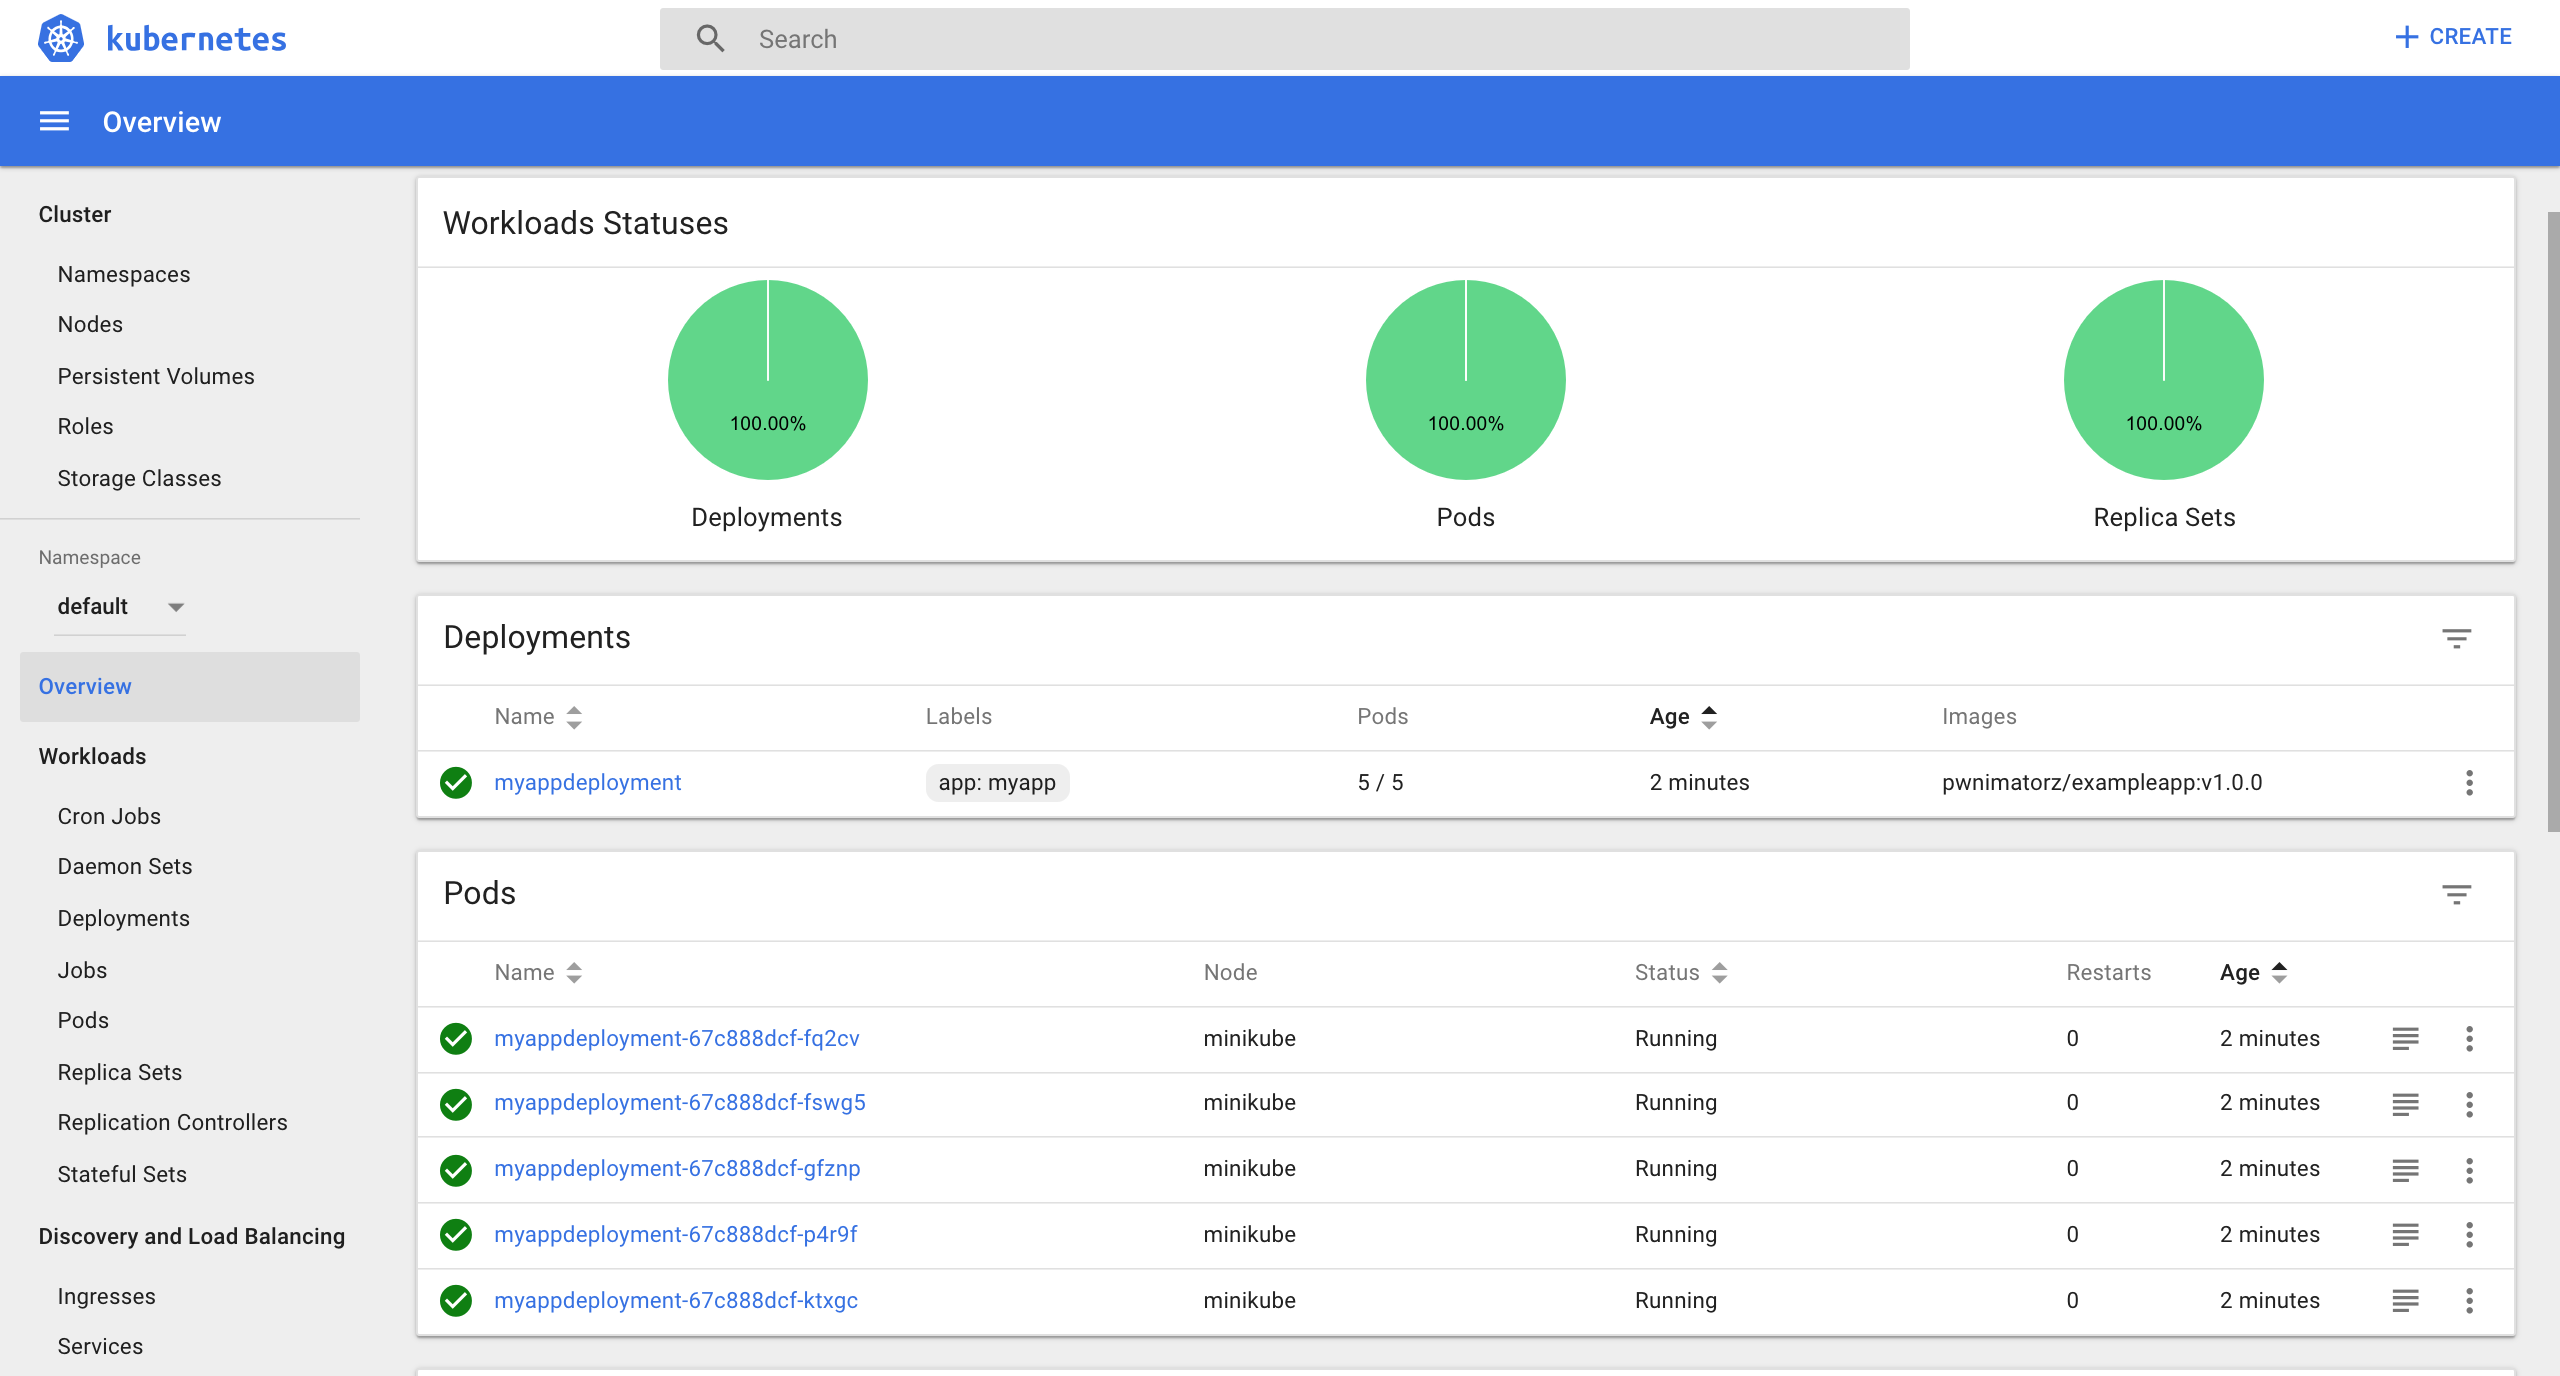
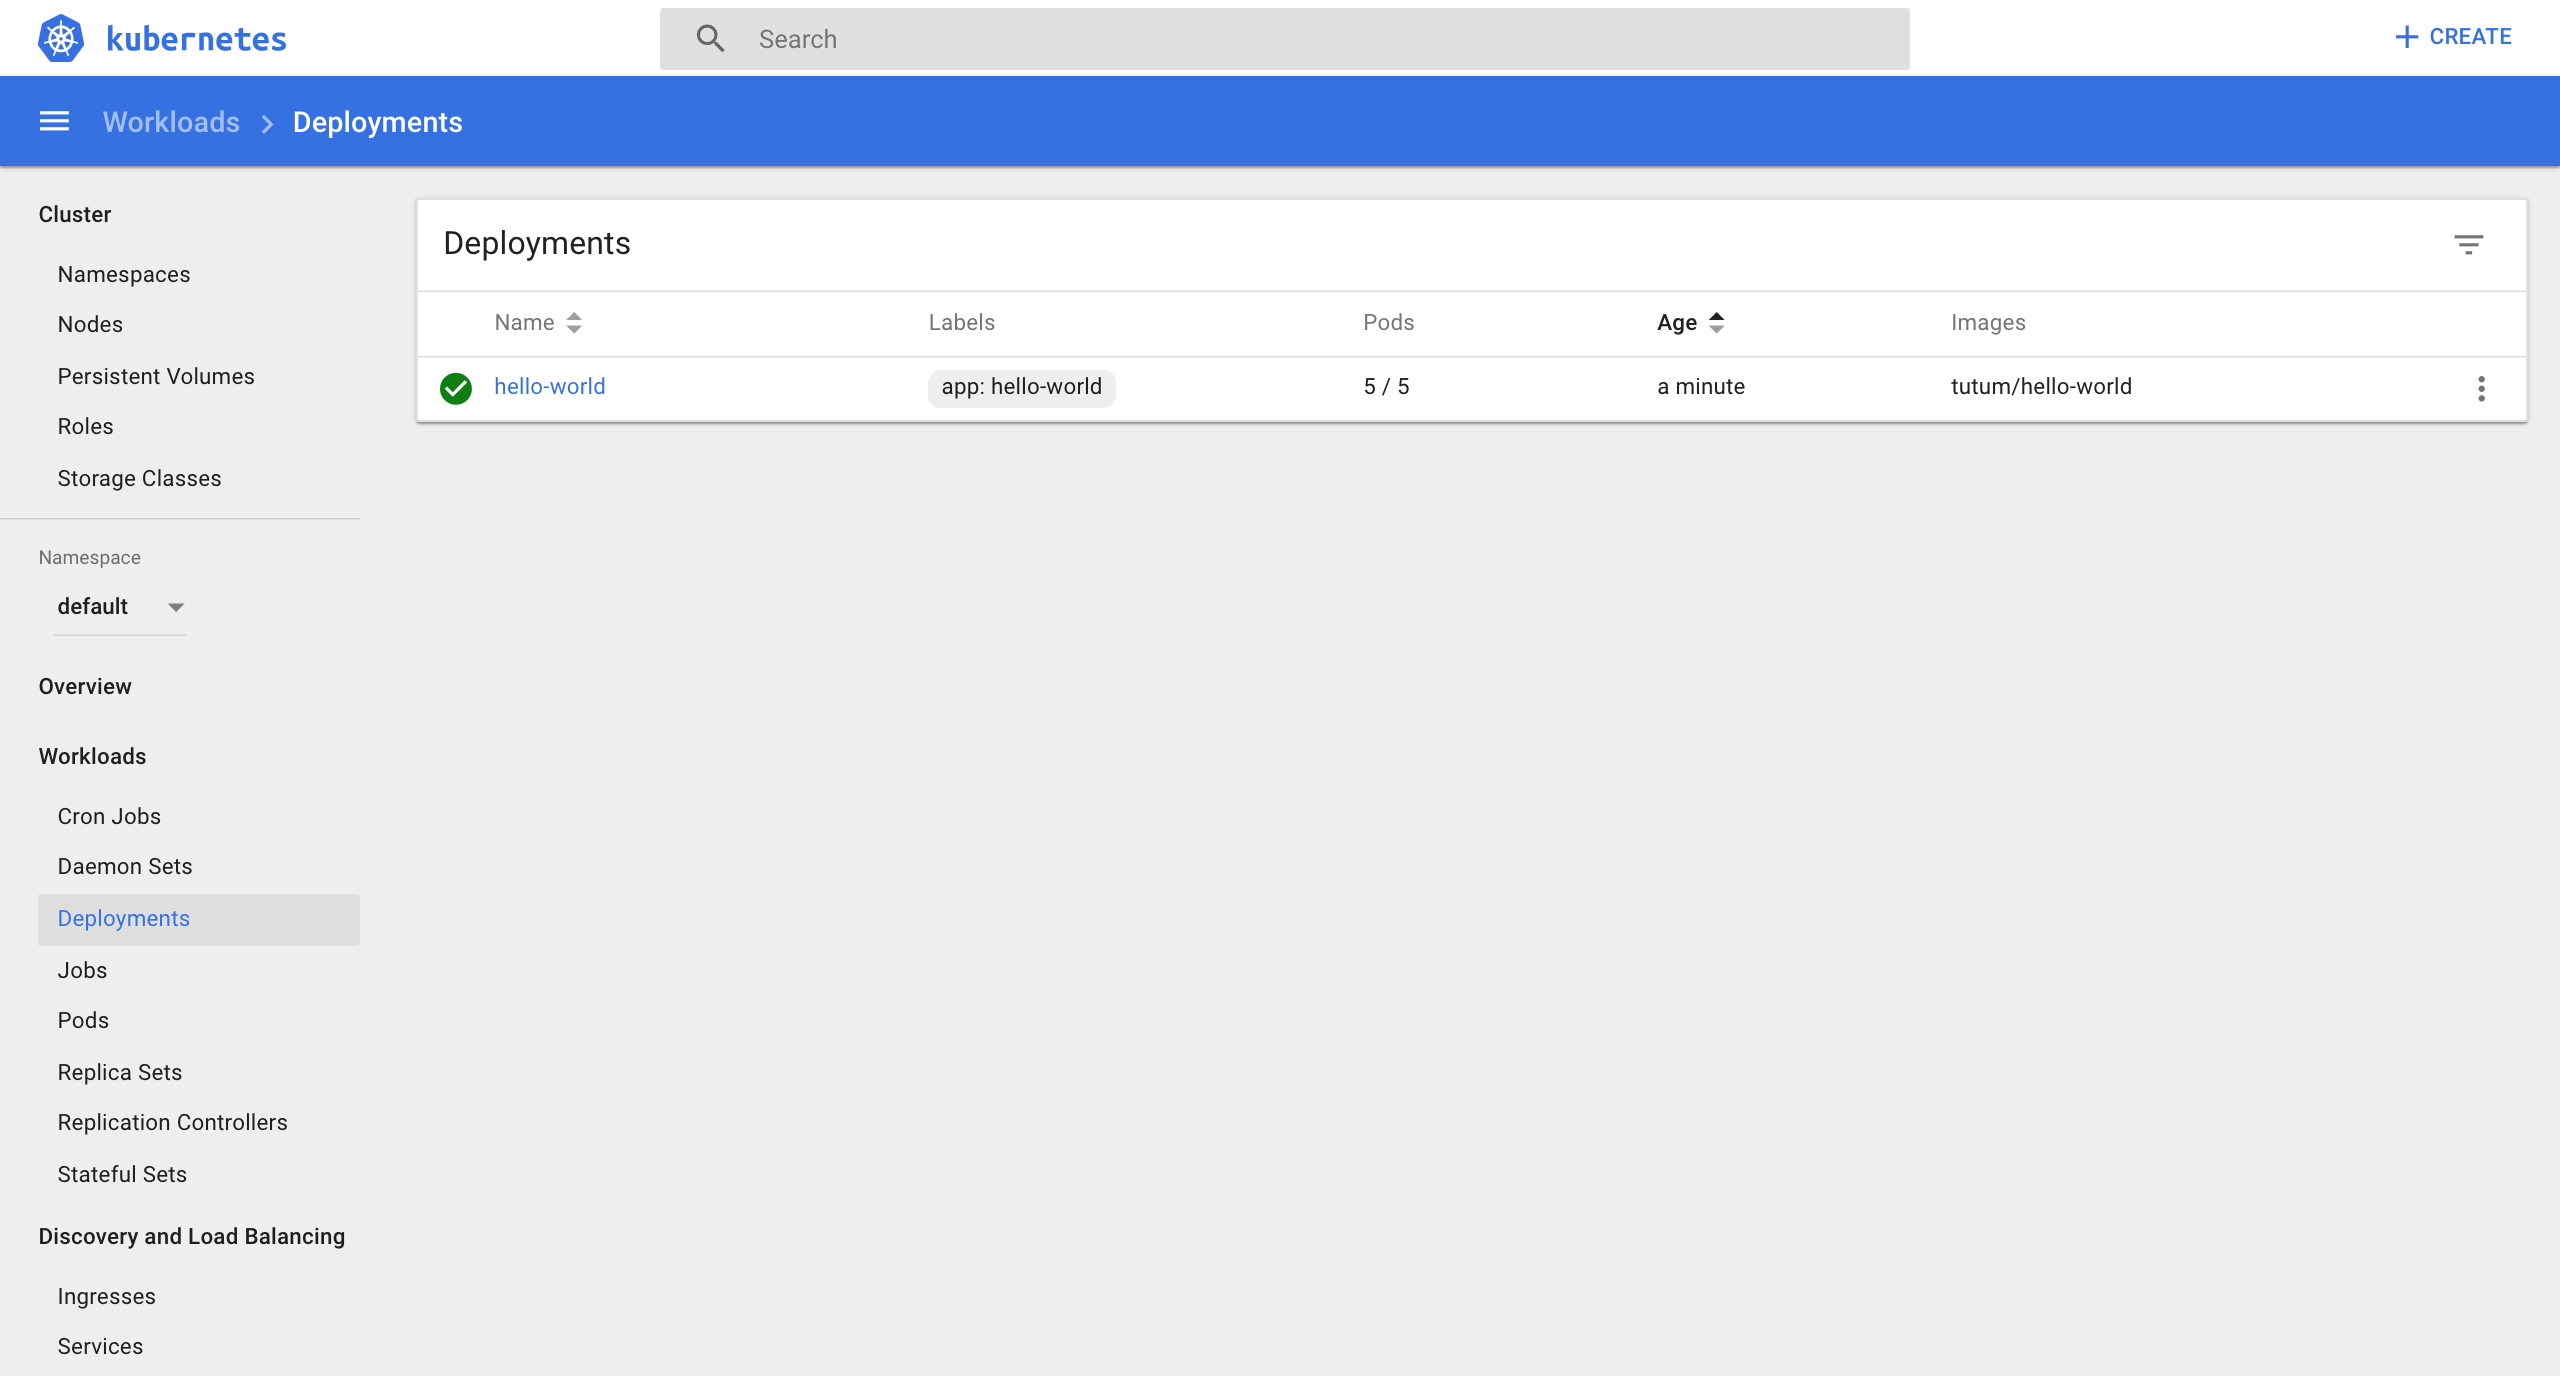
added run node app on k8s

diff --git a/README.md b/README.md
@@ -22,11 +22,11 @@ create **exampleservice** service and **myappdeployment** deployment
 There are 5 replicas of **myappdeployment** (as set in `deploymet.yml`)
 NAME     |      READY |  STATUS   |          RESTARTS |  AGE<br>
 --- | --- | --- | --- | ---
-myappdeployment-65665fbfcd-9zkfl |  1/1 |    ImagePullBackOff |  0  |        4m27s<br>
-myappdeployment-65665fbfcd-fpzzq  | 1/1  |   ImagePullBackOff  | 0  |        4m27s<br>
-myappdeployment-65665fbfcd-kg976 |  1/1  |   ImagePullBackOff |  0   |       4m27s<br>
-myappdeployment-65665fbfcd-m6zj8 |  1/1  |   ImagePullBackOff  | 0  |      4m27s<br>
-myappdeployment-65665fbfcd-s6krp |  1/1 |    ImagePullBackOff  | 0     |     4m27s<br>
+hello-world-858c579f6b-54lkv |  1/1 |    Running |  0  |        4m27s<br>
+hello-world-858c579f6b-5lnwz  | 1/1  | Running  | 0  |        4m27s<br>
+hello-world-858c579f6b-5tv7c |  1/1  | Running |  0   |       4m27s<br>
+hello-world-858c579f6b-9tjq5 |  1/1  | Running | 0  |      4m27s<br>
+hello-world-858c579f6b-b66qq |  1/1 |  Running  | 0     |     4m27s<br>
 
 
 
@@ -34,10 +34,10 @@ myappdeployment-65665fbfcd-s6krp |  1/1 |    ImagePullBackOff  | 0     |     4m2
 
 NAME | READY  | UP-TO-DATE  | AVAILABLE  | AGE
 ---- | ---- | ---- | --- | ---
-myappdeployment |  5/5  |   5   |         5      |     9m54s
+hello-world |  5/5  |   5   |         5      |     9m54s
 
     $ minikube ip
-get ip address of k8s cluster such as 192.168.99.100 and go to http://192.168.99.100:30002/ (number of port are set in `deploymet.yml`)
+get ip address of kubernetes cluster such as 192.168.99.100 and go to http://192.168.99.100:30002/ (number of port are set in `deploymet.yml`)
 
 For change the number of replicas `Dashboard -> Deployments -> click : on the most right -> Scale` If it's increasing replicas, pods will be created. If it's decreasing, available pods will be terminated.
 
@@ -47,12 +47,27 @@ Load-Blancing = balance number of clients of each pods (users access the same de
 # Containerize a Node App
 Reference: https://nodejs.org/en/docs/guides/nodejs-docker-webapp/
 
-1. install dependencies
+1 ) install dependencies
 
     $ npm i express --save
 
-2. create index.js, Dockerfile, and .dockerignore following the reference
+2 ) create deployment-node-app.yml, index.js, Dockerfile, and .dockerignore following the reference
 
-3. build container
+3 ) build and run container
 
-    $ docker build -t pwnimatorz/exampleapp:v1.0.0 .
+    $ docker build -t vittunyuta/k8snodeapp:v1.0.0 .
+    $ docker run -p 8081:8080 -d vittunyuta/k8snodeapp:v1.0.0
+
+4 ) push to docker hub (login docker first). In this case username is vittunyuta, repository name is k8snodeapp, and tagname is v1.0.0
+
+    $ docker push <username>/<repo_name>:<tagname>
+
+5 ) create a deployment and pods on kubernetes
+
+    $ kubectl create -f deployment-node-app.yml
+
+6 ) get ip address such as 192.168.99.100
+
+    $ minikube ip
+
+7 ) go `192.168.99.100:30005`
